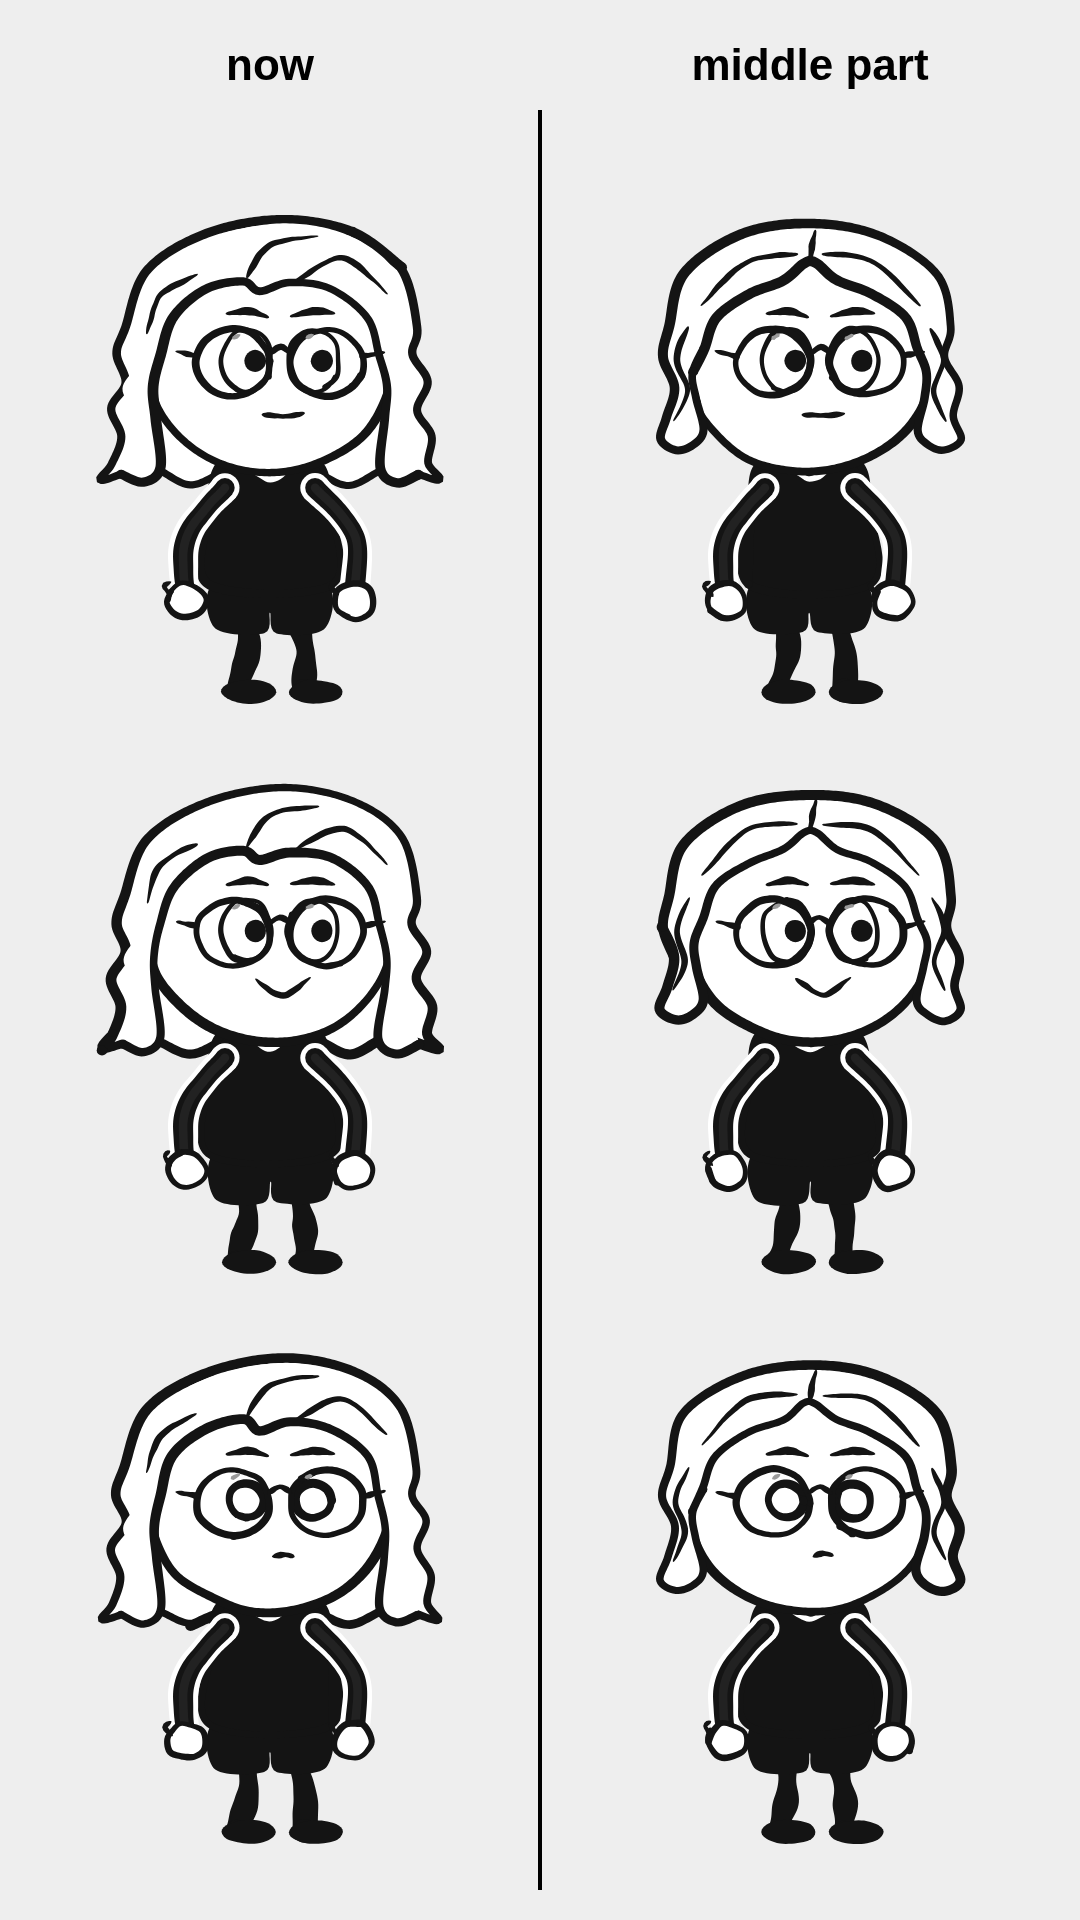
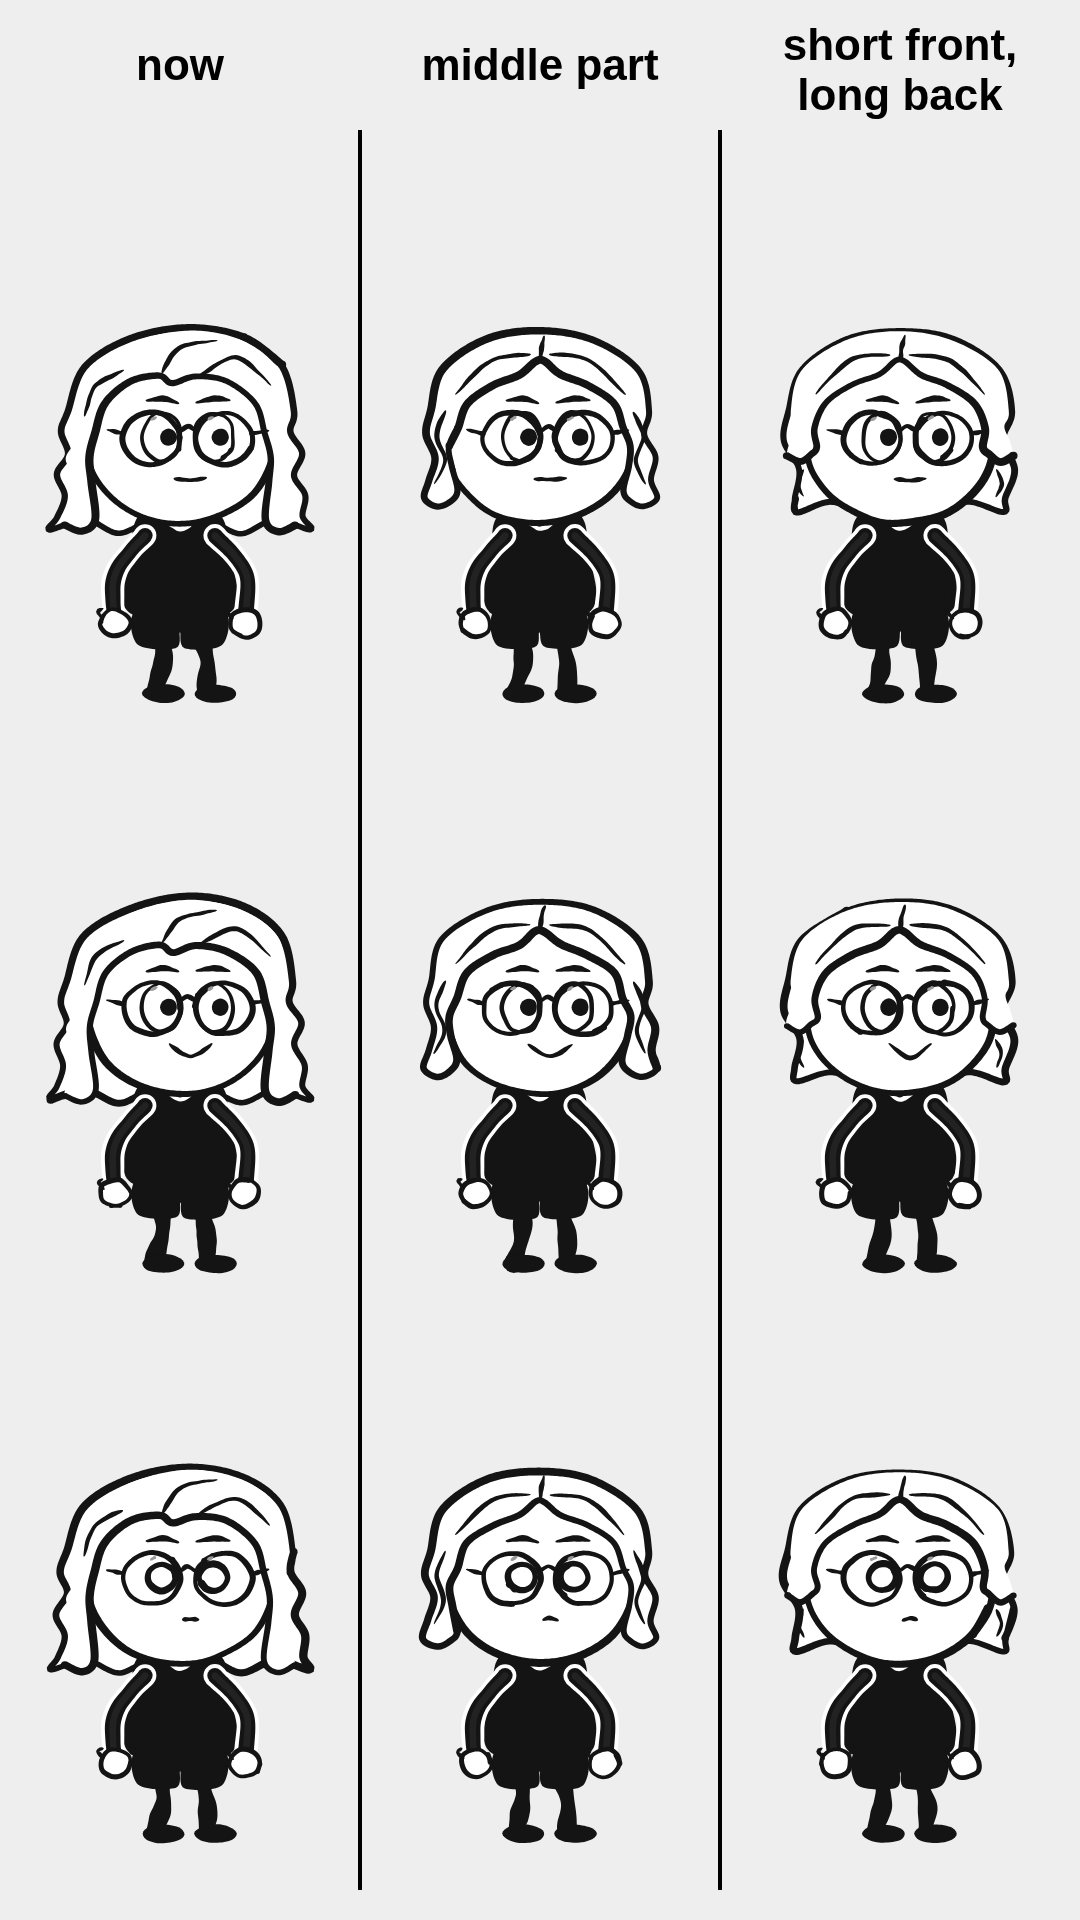
Trial 2: Nick with a middle part, short at the front and longer at the back (Cameos.nickMidLayered)
Not used in any video; Cameos.nick is unchanged.

Claude-Session: https://claude.ai/code/session_01BoxvgZ1TpRreVfD9rN3XD5

Changed region(s): [[0.0306, 0.0, 0.9472, 0.9688], [0.1222, 0.0312, 0.3056, 0.0625]]

diff --git a/web/cameos.js b/web/cameos.js
@@ -668,13 +668,15 @@ const Cameos = (() => {
   // Trial (not the approved design): middle part, wavy sides ending around the
   // jaw. A symmetric top shared by the front piece and the silhouette behind.
   const MID_TOP = [[-1.04, -0.86], [-0.56, -1.22], [0, -1.32], [0.56, -1.22], [1.04, -0.86]];
-  const midBack = ({ len = 0.8, wide = 1.24, waves = 3 } = {}) => ctx => {
+  const midBack = ({ len = 0.8, wide = 1.24, waves = 3, strands = false } = {}) => ctx => {
     const bottom = [];
     for (let i = 0; i <= 6; i++) { const x = wide - 2 * wide * i / 6; bottom.push([x, len - (i % 2) * 0.12]); }
     const poly = [...wavyEdge([-wide - 0.02, len - 0.16], [-1.18, -0.36], waves, 0.07), ...MID_TOP,
       ...wavyEdge([1.18, -0.36], [wide + 0.02, len - 0.16], waves, 0.07), ...bottom];
     fill(ctx, hu(poly), W, 1);
     outline(ctx, hu(poly), { w: 11 });
+    if (strands) for (const sx of [-1, 1])   // a wave down each longer back piece, below the front layer
+      stroke(ctx, hu([[sx * 1.02, 0.34], [sx * 1.08, 0.52], [sx * 1.02, len - 0.18]]), { w: 6, taper0: 0.2, taper1: 0.4 });
   };
   const MID_FRONT = outlineHair(
     [[-0.96, 0.74], [-1.1, 0.8], [-1.24, 0.7], ...wavyEdge([-1.18, 0.48], [-1.16, -0.36], 3, 0.05), ...MID_TOP,
@@ -684,6 +686,22 @@ const Cameos = (() => {
     [[[0.0, -0.98], [0.02, -1.14], [0.05, -1.28]],                        // the part
      [[0.1, -1.04], [0.52, -0.98], [0.9, -0.56]], [[-0.1, -1.04], [-0.52, -0.98], [-0.9, -0.56]],   // curtains falling away from it
      [[1.0, -0.36], [1.1, -0.06], [1.02, 0.24], [1.12, 0.52]], [[-1.0, -0.36], [-1.1, -0.06], [-1.02, 0.24], [-1.12, 0.52]]]);   // waves down the sides
+  // Trial 2: same middle part, short at the front (face-framing pieces end at
+  // the cheek) and longer towards the back (the layer behind hangs to the neck).
+  const MID_SHORT_FRONT = outlineHair(
+    [[-0.94, 0.16], [-1.06, 0.26], [-1.2, 0.18], ...wavyEdge([-1.17, 0.0], [-1.16, -0.36], 2, 0.05), ...MID_TOP,
+     ...wavyEdge([1.16, -0.36], [1.17, 0.0], 2, 0.05), [1.2, 0.18], [1.06, 0.26], [0.94, 0.16]],
+    [[0.88, 0.08], [0.9, -0.16], [0.78, -0.46], [0.5, -0.68], [0.22, -0.8],
+     [0.05, -0.96], [-0.05, -0.96], [-0.22, -0.8], [-0.5, -0.68], [-0.78, -0.46], [-0.9, -0.16], [-0.88, 0.08]],
+    [[[0.0, -0.98], [0.02, -1.14], [0.05, -1.28]],
+     [[0.1, -1.04], [0.52, -0.98], [0.9, -0.56]], [[-0.1, -1.04], [-0.52, -0.98], [-0.9, -0.56]]],
+    W, { seamless: true, tips: 3 });
+  const nickMidLayered = build({
+    shirt: INK, sleeve: '#222', behind: midBack({ len: 0.86, wide: 1.1, waves: 3, strands: true }),
+    body: { hipY: -140, neckY: -300, legW: 27, footX: 42, hipX: 30, torso: (n, h) => [[-54, n], [54, n], [74, n + 60], [76, h - 4], [-76, h - 4], [-74, n + 60]] },
+    headScale: [1.04, 0.98],
+    head: head({ hair: MID_SHORT_FRONT, front: roundGlasses }),
+    detail: (ctx, n) => stroke(ctx, [[-32, n + 2], [0, n + 24], [32, n + 2]], { w: 7, color: W }) });
   const nickMidPart = build({
     shirt: INK, sleeve: '#222',
     body: { hipY: -140, neckY: -300, legW: 27, footX: 42, hipX: 30, torso: (n, h) => [[-54, n], [54, n], [74, n + 60], [76, h - 4], [-76, h - 4], [-74, n + 60]] },
@@ -1032,5 +1050,5 @@ const Cameos = (() => {
     beard: build({ shirt: '#8a8a8a', sleeve: '#8a8a8a', sleeveHem: 0.42, head: head({ hair: shaggy, beard: fullBeard }), detail: collarTee }),
   };
 
-  return { speed, ludwig, beast, nick: nickBack.same, slime, originals, originals2, men, spikyShades, spikyAccents, nickAlts, nickFlow, nickOutline, nickBack, nickMidPart, props: { cash, bigCheck }, parts: { build, head, hh, RX, RY } };
+  return { speed, ludwig, beast, nick: nickBack.same, slime, originals, originals2, men, spikyShades, spikyAccents, nickAlts, nickFlow, nickOutline, nickBack, nickMidPart, nickMidLayered, props: { cash, bigCheck }, parts: { build, head, hh, RX, RY } };
 })();

diff --git a/web/skits/nick_hair_trial.js b/web/skits/nick_hair_trial.js
@@ -1,16 +1,18 @@
-// Trial: Nick's current hair (left) next to a middle-part, shorter wavy version
-// (right, Cameos.nickMidPart), in a few emotions. Not used in any video.
+// Trials: Nick's current hair (left), a middle part with shorter wavy sides
+// (Cameos.nickMidPart) and a middle part short at the front, long at the back
+// (Cameos.nickMidLayered), in a few emotions. Not used in any video.
 Skits.nick_hair_trial = {
   title: '', subtitle: '', duration: 1,
   draw(ctx, t) {
     ctx.fillStyle = '#eeeeee'; ctx.fillRect(0, 0, 1080, 1920);
     ctx.fillStyle = '#000'; ctx.font = 'bold 44px sans-serif'; ctx.textAlign = 'center';
-    ctx.fillText('now', 270, 80); ctx.fillText('middle part', 810, 80);
-    ctx.fillRect(538, 110, 4, 1780);
+    ctx.fillText('now', 180, 80); ctx.fillText('middle part', 540, 80); ctx.fillText('short front,', 900, 60); ctx.fillText('long back', 900, 110);
+    ctx.fillRect(358, 130, 4, 1760); ctx.fillRect(718, 130, 4, 1760);
     const E = Emotions, rows = [[E.neutral, 700], [E.happy, 1270], [E.stunned, 1840]];
     for (const [e, y] of rows) {
-      Cameos.nick(ctx, { t, x: 270, y, s: 0.8, dir: 1, lookX: 0.6, ...e });
-      Cameos.nickMidPart(ctx, { t, x: 810, y, s: 0.8, dir: 1, lookX: 0.6, ...e });
+      Cameos.nick(ctx, { t, x: 180, y, s: 0.62, dir: 1, lookX: 0.6, ...e });
+      Cameos.nickMidPart(ctx, { t, x: 540, y, s: 0.62, dir: 1, lookX: 0.6, ...e });
+      Cameos.nickMidLayered(ctx, { t, x: 900, y, s: 0.62, dir: 1, lookX: 0.6, ...e });
     }
   },
 };
